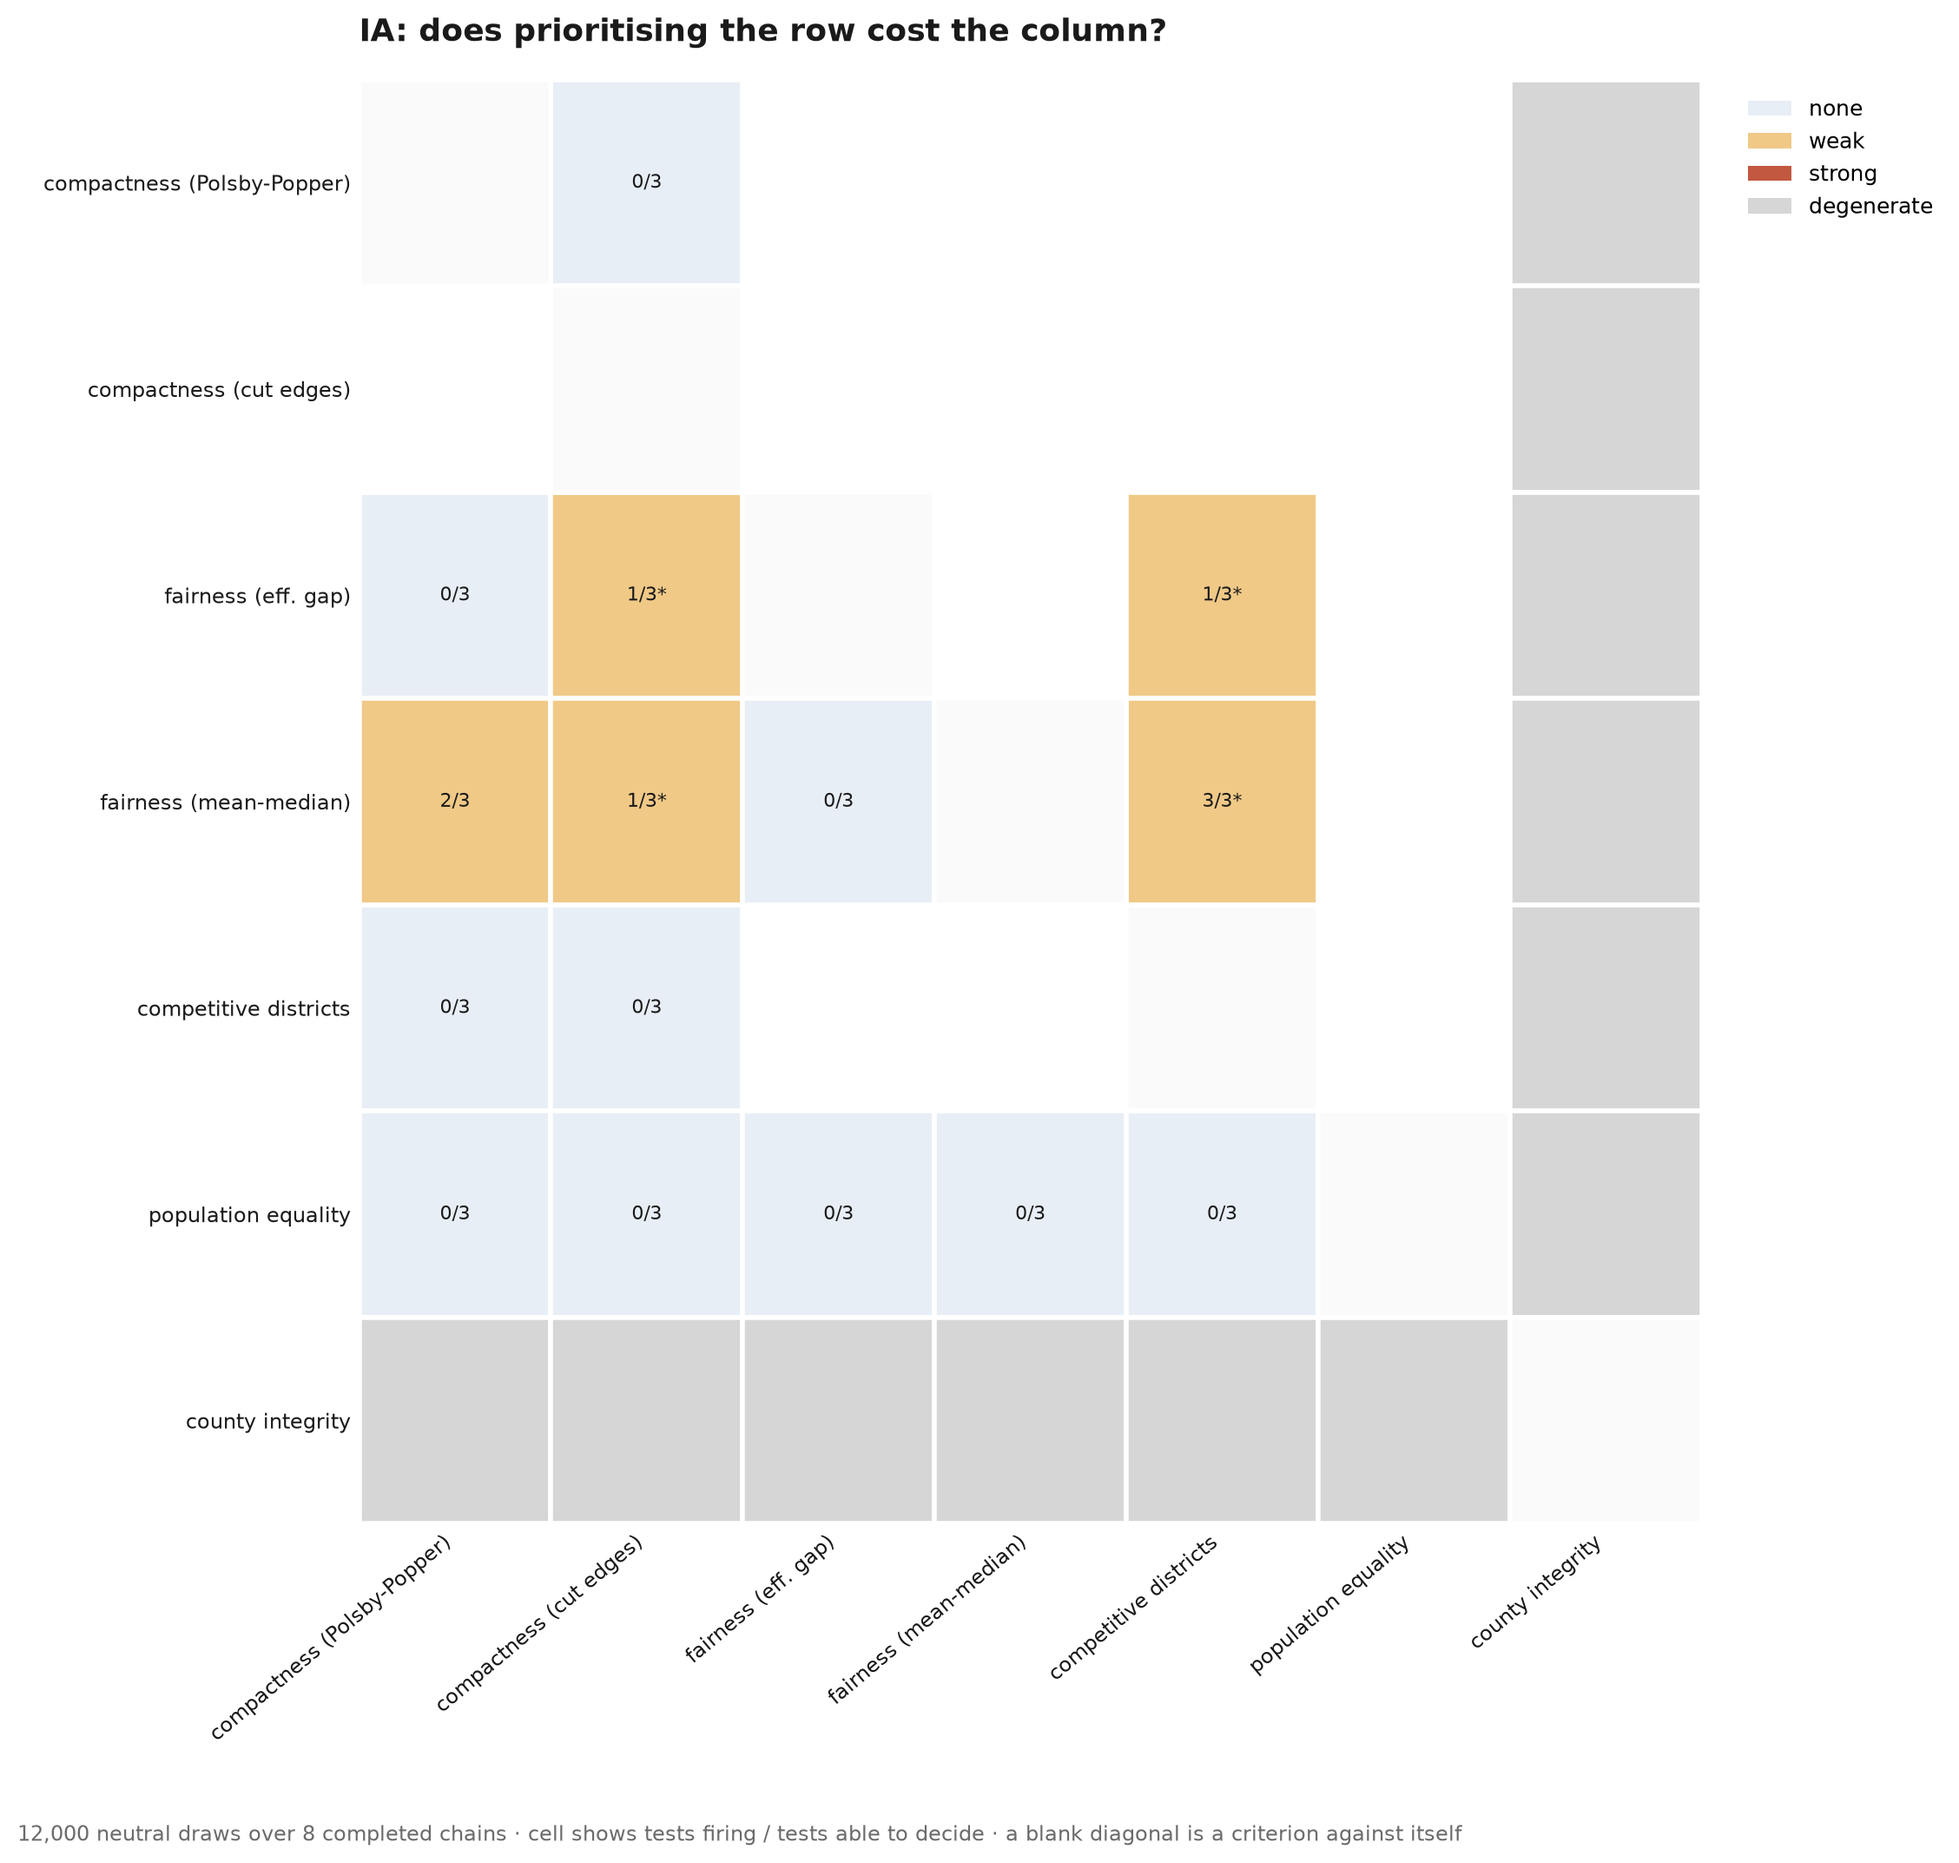
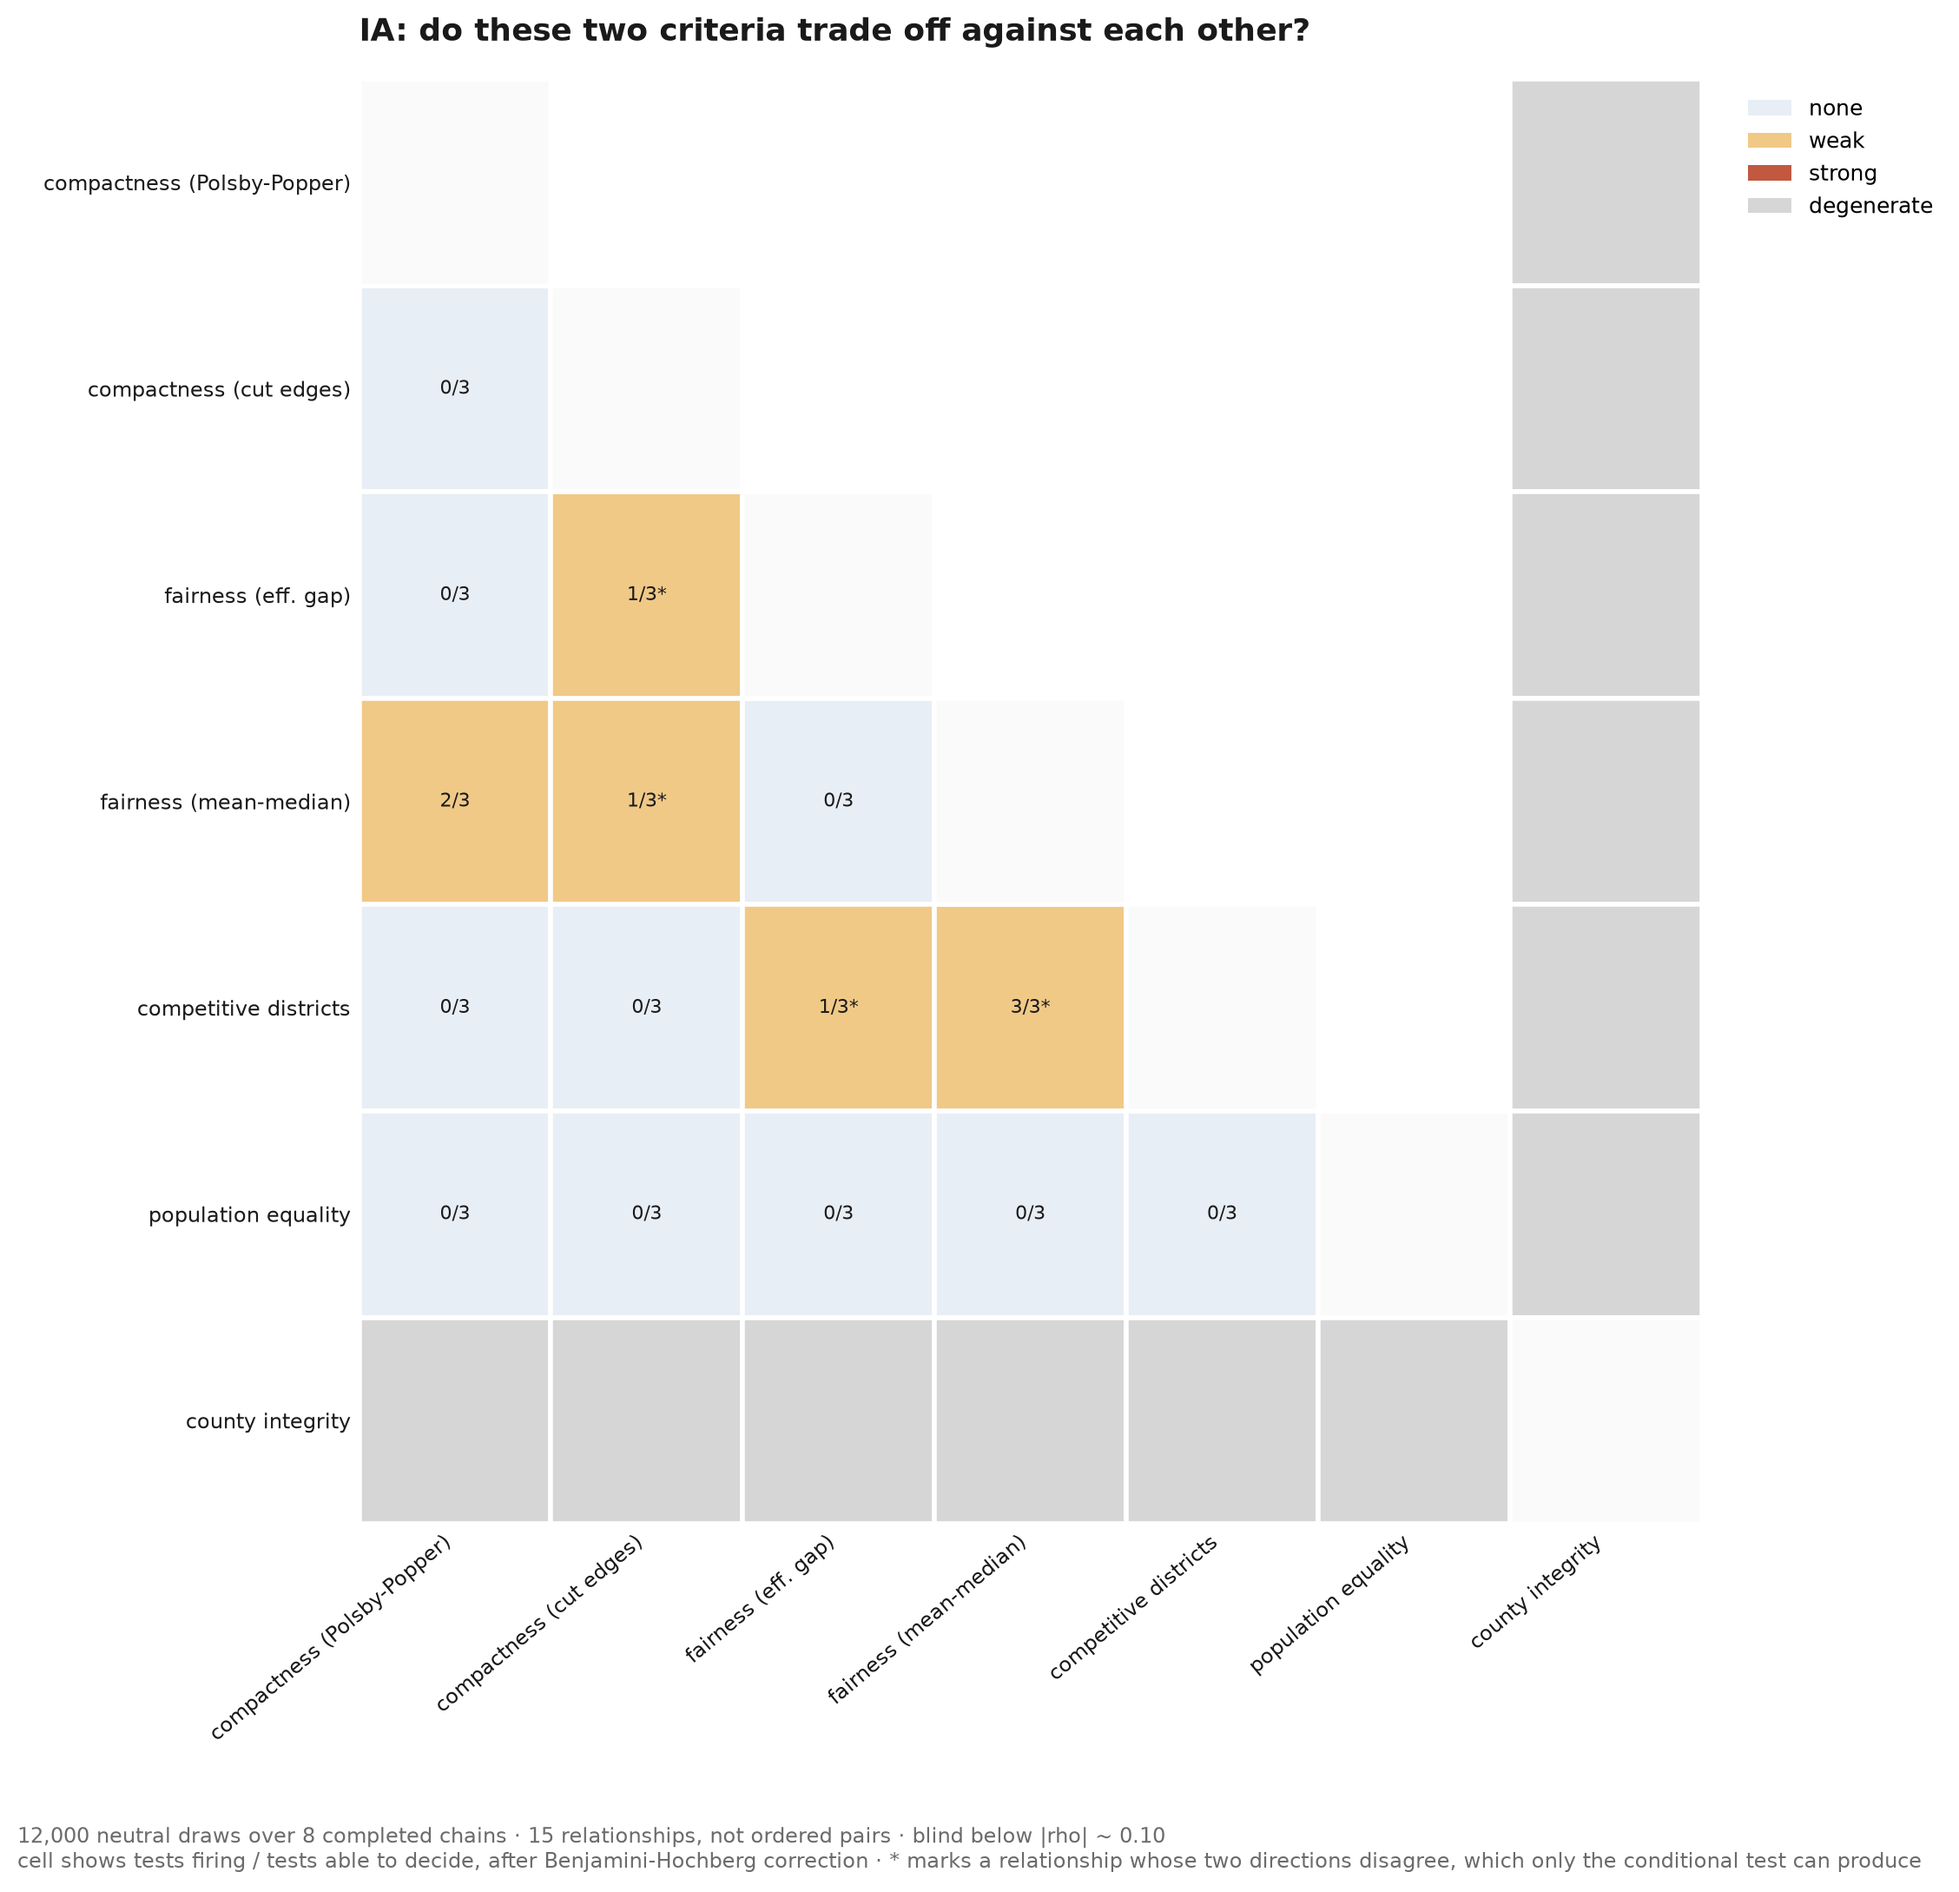
Fix the verdict matrix: canonical ordering, and say what a null means
Two bugs in the relationship matrix. Cells were placed by alphabetical
sort of the pair, which scatters them off the triangle -- half the grid
was empty and the rest was in the wrong place. Ordering is now by
position in the criteria list.

The title still asked the ordered-pair question ("does prioritising the
row cost the column?") after the matrix had been collapsed to unordered
relationships, and the caption said neither how many relationships there
are nor what a null cell means. It now carries the relationship count,
the measured detection floor, and the fact that the counts are
post-correction.

Both were silent no-op replacements in an earlier edit -- the patch ran,
matched nothing, and reported success. Each replacement in this change is
asserted present after writing.

Claude-Session: https://claude.ai/code/session_01S1zrECPnQPY8LARrLDuXmx

diff --git a/tools/plot_experiment_2.py b/tools/plot_experiment_2.py
@@ -131,13 +131,16 @@ def verdict_matrix(state: dict, path: Path) -> Path:
 
     drawn = set()
     for (a, b), pair in verdicts.items():
-        key = tuple(sorted((a, b)))
+        # Canonical order is position in the criteria list, not alphabetical:
+        # sorting by name scatters the cells off the triangle.
+        key = tuple(sorted((a, b), key=lambda n: index[n]))
         if key in drawn:
             continue
         drawn.add(key)
         # lower triangle: row is the later name, so each relationship is one cell
-        row, col = index[key[1]], index[key[0]]
-        record = rel.get(f"{key[0]} <-> {key[1]}")
+        row, col = index[key[1]], index[key[0]]   # lower triangle
+        record = (rel.get(f"{key[0]} <-> {key[1]}")
+                  or rel.get(f"{key[1]} <-> {key[0]}"))
         verdict = record["verdict"] if record else pair["verdict"]
         ax.add_patch(plt.Rectangle(
             (col - 0.5, row - 0.5), 1, 1,
@@ -173,13 +176,20 @@ def verdict_matrix(state: dict, path: Path) -> Path:
     ax.tick_params(length=0)
 
     sample = state["ensemble"]["analysis_sample"]
+    floors = [f["floor_any_test"]["weakest_detected_rho"]
+              for f in state.get("detection_floor", [])
+              if f.get("floor_any_test", {}).get("fires")]
+    floor = f" · blind below |rho| ~ {min(floors):.2f}" if floors else ""
+    n_rel = state.get("relationships", {}).get("n_relationships", "?")
     ax.set_title(
-        f"{state['state']}: does prioritising the row cost the column?",
+        f"{state['state']}: do these two criteria trade off against each other?",
         fontsize=13, color=INK, fontweight="bold", pad=16, loc="left")
     fig.text(0.0, -0.03,
              f"{sample['n_draws']:,} neutral draws over {sample['n_chains']} "
-             f"completed chains · cell shows tests firing / tests able to decide"
-             f" · a blank diagonal is a criterion against itself",
+             f"completed chains · {n_rel} relationships, not ordered pairs{floor}\n"
+             f"cell shows tests firing / tests able to decide, after "
+             f"Benjamini-Hochberg correction · * marks a relationship whose two "
+             f"directions disagree, which only the conditional test can produce",
              fontsize=8.5, color=MUTED, ha="left", va="top")
 
     ax.legend(handles=[Patch(facecolor=VERDICT_COLOUR[v], label=v)
